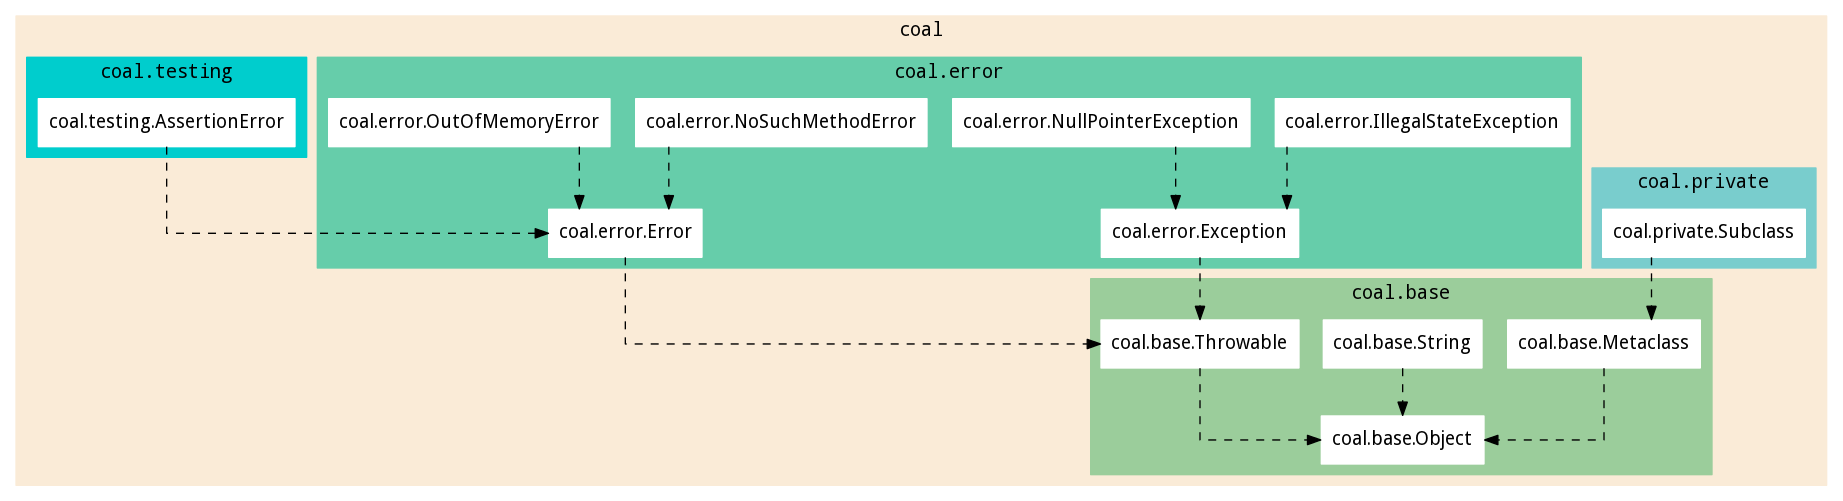
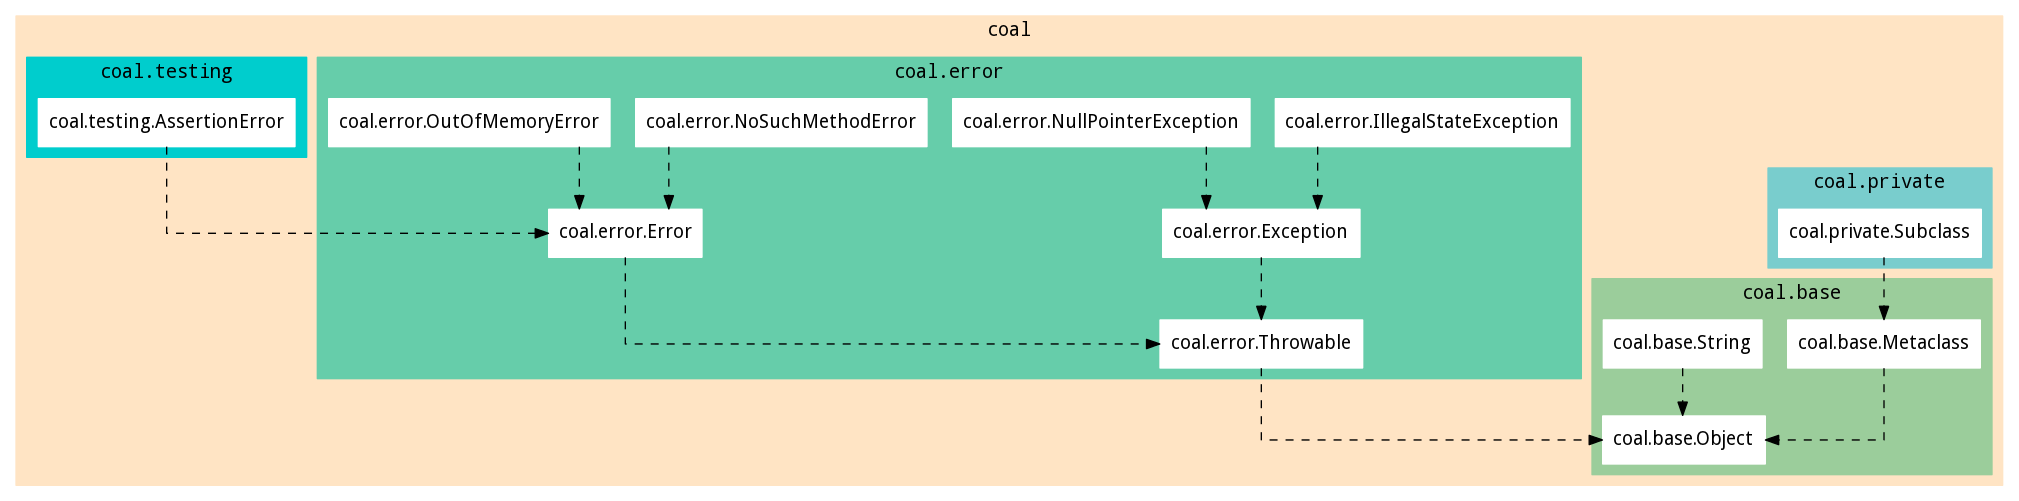
Moved Throwable to the error package.

Changed region(s): [[0.0, 0.0299, 1.0, 0.9581], [0.433, 0.1198, 0.5567, 0.1497], [0.4948, 0.0599, 0.5258, 0.0898]]

diff --git a/coal/error/Throwable.h b/coal/error/Throwable.h
@@ -17,15 +17,25 @@
  * Foundation, Inc., 51 Franklin Street, Fifth Floor, Boston, MA  02110-1301  USA
  */
 
-#ifndef COAL_BASE_THROWABLE_REP_H
-#define COAL_BASE_THROWABLE_REP_H
+#ifndef COAL_ERROR_THROWABLE_H
+#define COAL_ERROR_THROWABLE_H
 
-#include <coal/base/Object/Object.rep.h>
+#include <coal/base/Object.h>
 
-class (Throwable) {
-  extends(Object);
+/**
+ * coal_error_Throwable
+ *
+ * Root of the entire coal exception hierarchy.
+ *
+ * @extends coal_base_Object
+ * @constructor takes a variable amount of arguments
+ * @param (const char *) printf-like format string
+ * @param (...) printf-like arguments
+ */
+coal_cfunspec val coal_error_Throwable (void) coal_funattr_const;
 
-  char * message;
-};
+#ifdef COAL_BASE_NAMESPACE_POLLUTE
+# define Throwable() coal_error_Throwable()
+#endif
 
-#endif /* COAL_BASE_THROWABLE_REP_H */
+#endif /* COAL_ERROR_THROWABLE_H */

diff --git a/coal/error/Throwable/Throwable.rep.h b/coal/error/Throwable/Throwable.rep.h
@@ -17,25 +17,15 @@
  * Foundation, Inc., 51 Franklin Street, Fifth Floor, Boston, MA  02110-1301  USA
  */
 
-#ifndef COAL_BASE_THROWABLE_H
-#define COAL_BASE_THROWABLE_H
+#ifndef COAL_ERROR_THROWABLE_REP_H
+#define COAL_ERROR_THROWABLE_REP_H
 
-#include <coal/base/Object.h>
+#include <coal/base/Object/Object.rep.h>
 
-/**
- * coal_base_Throwable
- *
- * Root of the entire coal exception hierarchy.
- *
- * @extends coal_base_Object
- * @constructor takes a variable amount of arguments
- * @param (const char *) printf-like format string
- * @param (...) printf-like arguments
- */
-coal_cfunspec val coal_base_Throwable (void) coal_funattr_const;
+class (Throwable) {
+  extends(Object);
 
-#ifdef COAL_BASE_NAMESPACE_POLLUTE
-# define Throwable() coal_base_Throwable()
-#endif
+  char * message;
+};
 
-#endif /* COAL_BASE_THROWABLE_H */
+#endif /* COAL_ERROR_THROWABLE_REP_H */

diff --git a/coal/error/Throwable/Throwable.c b/coal/error/Throwable/Throwable.c
@@ -29,8 +29,8 @@
 #include <coal/base/Metaclass.h>
 #include <coal/base/Metaclass/Metaclass.rep.h>
 #include <coal/base/String.h>
-#include <coal/base/Throwable.h>
-#include <coal/base/Throwable/Throwable.rep.h>
+#include <coal/error/Throwable.h>
+#include <coal/error/Throwable/Throwable.rep.h>
 
 #include <coal/error/OutOfMemoryError.h>
 
@@ -70,9 +70,9 @@ var Throwable_toString (val _self) {
 				 self->message);
 }
 
-SETUP_CLASS_DESCRIPTION(coal_base_Throwable,
+SETUP_CLASS_DESCRIPTION(coal_error_Throwable,
 			coal_base_Metaclass(),
-			LIBRARY_STR ".base.Throwable",
+			LIBRARY_STR ".error.Throwable",
 			coal_base_Object(),
 			sizeof(class(Throwable)),
 			/* Object */

diff --git a/coal/error/Exception.h b/coal/error/Exception.h
@@ -20,7 +20,7 @@
 #ifndef COAL_ERROR_EXCEPTION_H
 #define COAL_ERROR_EXCEPTION_H
 
-#include <coal/base/Throwable.h>
+#include <coal/error/Throwable.h>
 
 /**
  * coal_error_Exception
@@ -28,7 +28,7 @@
  * Base class for throwables that a reasonable application
  * might want to catch.
  *
- * @extends coal_base_Throwable
+ * @extends coal_error_Throwable
  * @constructor takes a variable amount of arguments
  * @param (const char *) printf-like format string
  * @param (...) printf-like arguments

diff --git a/coal/error/Error.h b/coal/error/Error.h
@@ -20,7 +20,7 @@
 #ifndef COAL_ERROR_ERROR_H
 #define COAL_ERROR_ERROR_H
 
-#include <coal/base/Throwable.h>
+#include <coal/error/Throwable.h>
 
 /**
  * coal_error_Error
@@ -28,7 +28,7 @@
  * Base class for throwables that a reasonable application
  * might not want to catch.
  *
- * @extends coal_base_Throwable
+ * @extends coal_error_Throwable
  * @constructor takes a variable amount of arguments
  * @param (const char *) printf-like format string
  * @param (...) printf-like arguments

diff --git a/coal/error/Exception/Exception.c b/coal/error/Exception/Exception.c
@@ -21,8 +21,8 @@
 #include <coal/private/library.h>
 #include <coal/private/virtual_methods.h>
 
-#include <coal/base/Throwable.h>
+#include <coal/error/Throwable.h>
 
 ExceptionDefinitionTemplate(coal_error_Exception,
 			    LIBRARY_STR ".error.Exception",
-			    coal_base_Throwable())
+			    coal_error_Throwable())

diff --git a/coal/error/Error/Error.c b/coal/error/Error/Error.c
@@ -21,8 +21,8 @@
 #include <coal/private/library.h>
 #include <coal/private/virtual_methods.h>
 
-#include <coal/base/Throwable.h>
+#include <coal/error/Throwable.h>
 
 ExceptionDefinitionTemplate(coal_error_Error,
 			    LIBRARY_STR ".error.Error",
-			    coal_base_Throwable())
+			    coal_error_Throwable())
